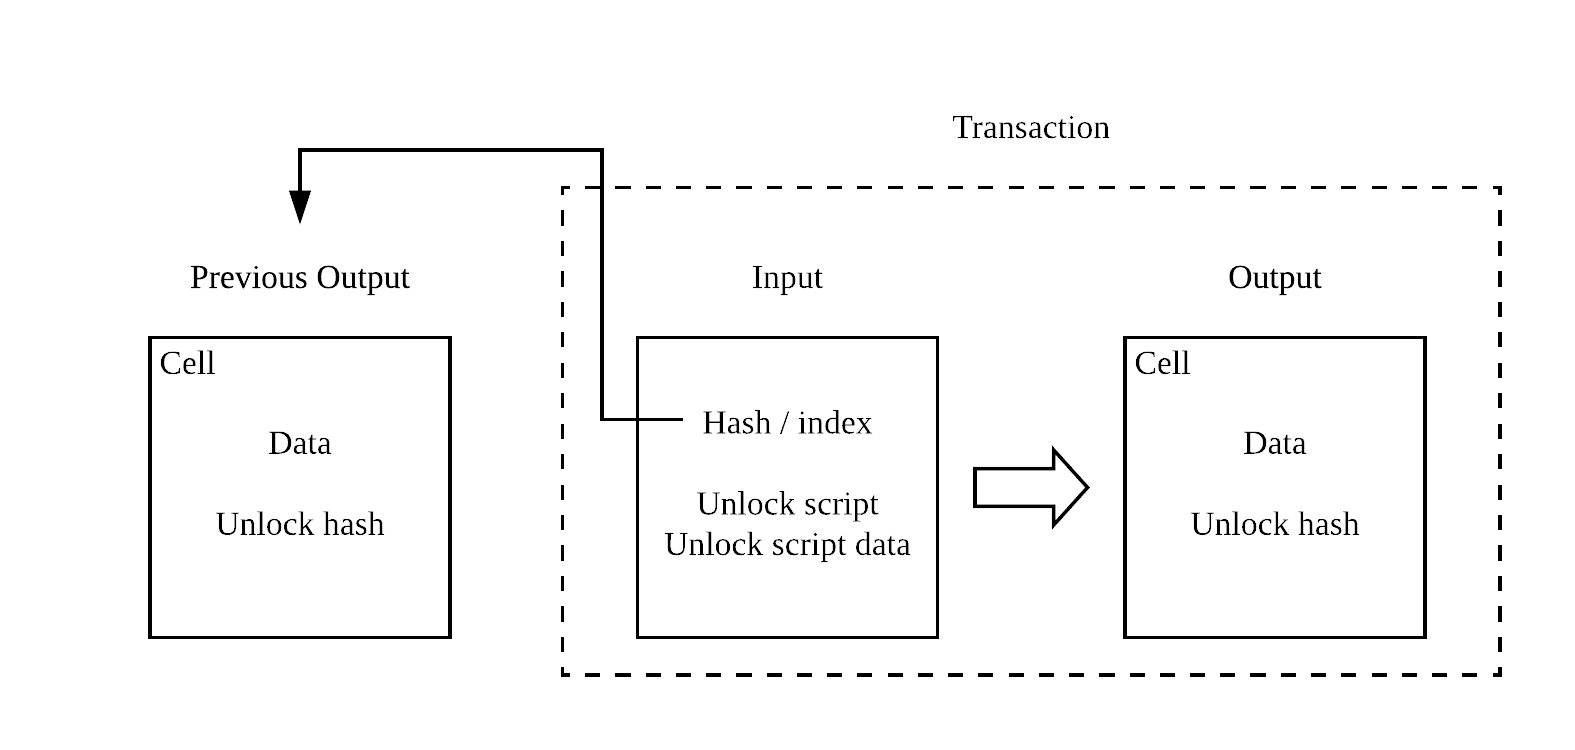
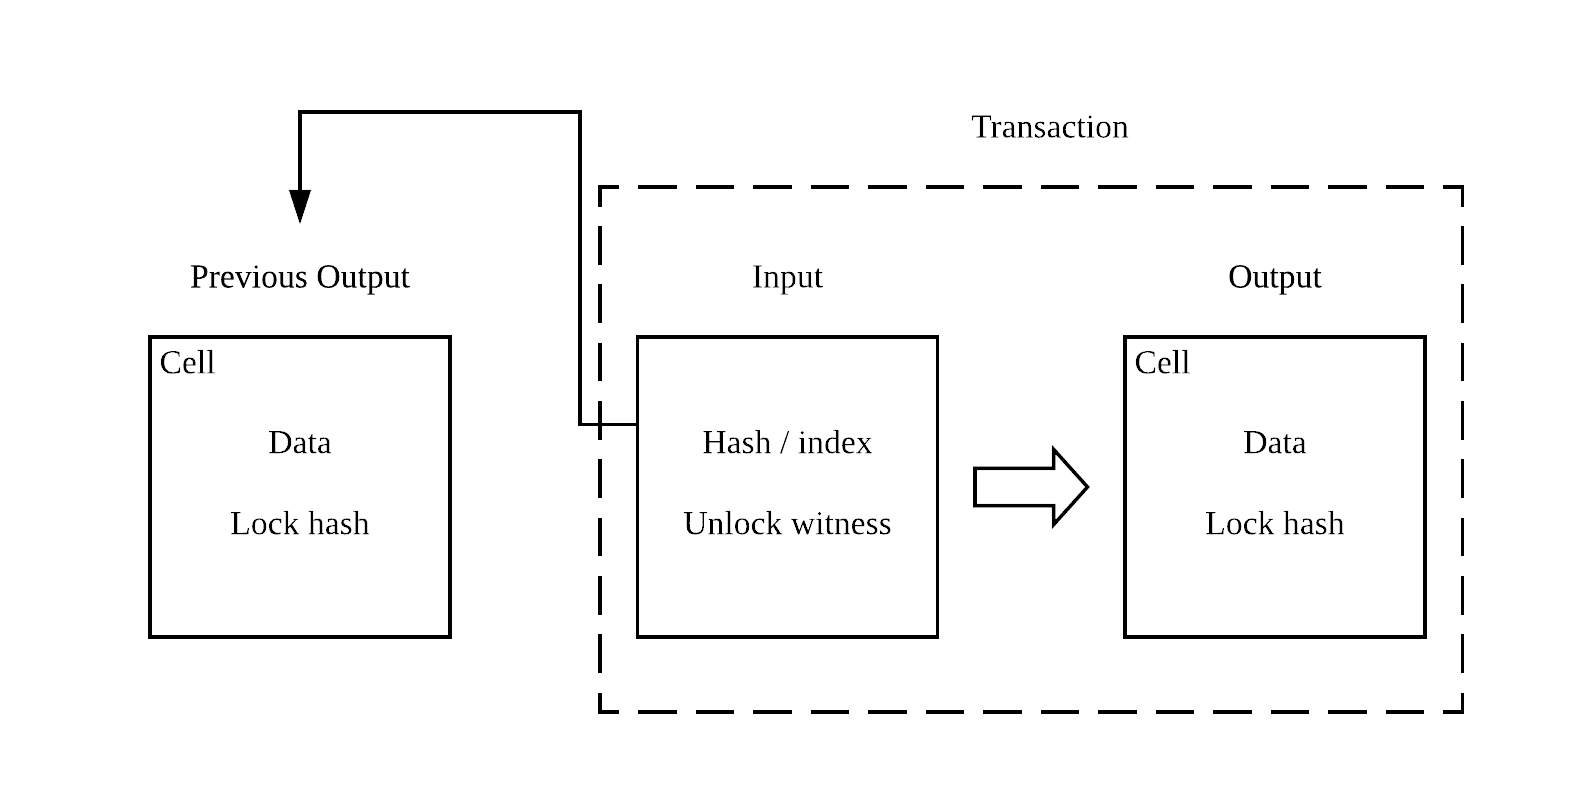
Revise RFC based on reviews

diff --git a/rfcs/0003-contract/main.zh-CN.md b/rfcs/0003-contract/main.zh-CN.md
@@ -10,14 +10,14 @@ Start Date: 2018-08-27
 
 该 RFC 对现在的合约运行模型作出一些修改，以达到如下目的：
 
-* 定义 Cell 类型的 schema 以及 validator 执行逻辑
+* 定义 Cell 的 validator 执行逻辑
 * 定义交易内部的不同合约之间的交互方法
 
 考虑到如下原因，注意本 RFC 中的所有实例代码在未经说明的情况下，均以 Ruby 来编写：
 
 * 已经证明通过直接运行 Ruby 虚拟机的方式，CKB 虚拟机可以运行 Ruby 代码
 * 这里主要的目的是说明合约如何运行，而不是达到最小的资源消耗
-* 目前绝大部分的团队成员已经会 Ruby，同时对于不懂 Ruby 的人员来说，Ruby 也容易阅读说明问题
+* Ruby 是一种可读性很高的语言，即使对于没有使用过 Ruby 的开发者，Ruby 也很容易理解
 
 ## 回顾
 
@@ -25,9 +25,9 @@ Start Date: 2018-08-27
 
 ![](assets/current-flow.png "Current Flow")
 
-1. 目前的 UTXO (在 CKB 中也叫做 `Cell`)，包含一个 data 数据字段，以及 data/owner lock。为了减小 UTXO 占用空间，UTXO 中只保存 lock 的哈希值。
-2. 交易的每个输入会包含对一个 UTXO 的引用，实际的 unlock 脚本(这里脚本的哈希值应该与 UTXO 中相应 lock 的哈希值相同)，以及 unlock 脚本的输入参数。CKB 通过虚拟机在给定输入参数执行该脚本的时候，脚本应该返回成功的返回值。
-3. 交易的每个输出也是一个 UTXO 结构（如果有输出的话），这个 UTXO 结构也包含 data 数据段以及 data/owner lock（仅包含哈希值）。输出的 UTXO 中即可以使用原有输入 UTXO 中的 lock，也可以使用全新的 lock。
+1. 目前 Cell 包含一个 data 数据字段，以及 data/owner lock。为了减小 Cell 占用空间，Cell 中只保存 lock 的哈希值。
+2. 交易的每个输入会包含对一个 Cell 的引用，实际的 unlock witness 数据，包含 unlock 脚本(这里脚本的哈希值应该与 Cell 中相应 lock 的哈希值相同)，以及 unlock 脚本的输入参数。CKB 通过虚拟机在给定输入参数执行该脚本的时候，脚本应该返回成功的返回值。
+3. 交易的每个输出也是一个 Cell 结构（如果有输出的话），这个 Cell 结构也包含 data 数据段以及 data/owner lock（仅包含哈希值）。输出的 Cell 中即可以使用原有输入 Cell 中的 lock，也可以使用全新的 lock。
 
 ## 概念
 
@@ -47,44 +47,9 @@ Start Date: 2018-08-27
 
 除 coinbase 交易外，所有的交易应该满足 output cell 的 capacity 总和不大于 input cell 的 capacity 总和的条件。
 
-### Cell 类型
+### Validator
 
-![](assets/cell.png "Cell")
-
-白皮书中提到了 Cell 的类型系统，类型系统包括了 schema 和 validator 两个部分。但是目前为止，他们的实际结构还没有定义。这里会定义 schema 与 validator 的结构。
-
-#### Schema
-
-Schema 提供了访问制定的 Cell 中的数据的方法。CKB 中，schema 以 CKB 虚拟机可以使用的动态链接库提供。它可以在加载之后为虚拟机提供一系列解析和读取 Cell 中存储内容的工具函数。针对一个包含天气信息的 Oracle Cell，可以提供以下的工具函数读取天气信息：
-
-```c
-int temperature(int city_index, int year, int month, int day);
-int wind(int city_index, int year, int month, int day);
-```
-
-注意这里使用 C 语言来定义函数原型仅仅是一个可能的例子。Schema 仅需要保证是 RISC-V 架构的 ELF 格式动态链接库既可以。实际上完全可以定义一个只能被载入到 CKB 上运行的 mruby 虚拟机上，只能被 Ruby 语言调用的 Schema：
-
-```ruby
-module Weather
-  def self.temperature(city_index, year, month, day)
-    # calling actual library
-  end
-
-  def self.wind(city_index, year, month, day)
-    # calling actual library
-  end
-end
-```
-
-在这里例子中，动态链接库还需要制定一个初始化函数用于把相应的 Ruby 模块载入 mruby 虚拟机中，但是这里想指出的点是是否提供 C 语言的 API 完全取决于 Cell 的维护者。
-
-同时 Schema 也是可选的：简单的 Cell 完全可以直接读取 Cell 的部分数据来获取需要的信息，无需载入一个完整的动态链接库。但是对于复杂的 Cell，schema 可能会更加有用。
-
-Schema 同时也是非常灵活的：CKB 本身并不制定构成 Cell 数据的基本结构（比如整型或是字符串）。与此相反，CKB 完全依赖于 Cell 的维护者来选择合适的数据结构来表示数据，他/她们可以按照需要提供任何函数来操作数据。
-
-#### Validator
-
-Schema 提供了便捷的访问已有 Cell 的格式化数据的方式，validator 则提供了确保新生成的 Cell 满足预先定义好的数据格式。与 unlock 脚本类似，Validator 实际上就是一个 RISC-V 架构下的可以执行合约。CKB 会在 Validator 自己的虚拟机中，通过如下输入参数执行合约：
+Cell 中会增加 Validator 部分。与 unlock 脚本类似，Validator 是一个 RISC-V 指令集下的 ELF 可执行程序。在验证交易的过程中，CKB 会在 Validator 自己的虚拟机中，通过如下输入参数执行合约：
 
 ```bash
 $ ./validator <number of deps> <dep 1 cell ID> <dep 2 cell ID> ... \
@@ -93,13 +58,13 @@ $ ./validator <number of deps> <dep 1 cell ID> <dep 2 cell ID> ... \
     <current output cell ID>
 ```
 
-在运行期，合约可以调用 CKB 提供的 API，或是相应的系统调用来载入 Cell 的 Schema 操作库，或是直接读取 Cell 内容，或是与其他合约交互（后面会介绍交互方式）。合约执行完毕时，通过返回值来表明 validator 执行是否成功。
+注意虽然 deps 包含整个交易的所有 deps Cell，但是这里的 inputs 与 outputs 部分只包含当前组中的所有输入与输入部分。这样通过组的作用，可以将有交互需要的 Cell 组合在一起；对于不相关的 Cell 操作，组也可以将他们隔离，保证各自的 Validator 不会相互影响。
 
-#### Cell 类型的属性
+在运行期，Validator 合约可以调用 CKB 提供的 API，或是相应的系统调用来载入外部 Cell 提供的辅助工具库，或是直接读取 Cell 内容，或是与其他合约交互（后面会介绍交互方式）。合约执行完毕时，通过返回值来表明 validator 执行是否成功。
 
-Cell 的类型部分（包含 schema 和 validator）既可以直接包含在当前 Cell 内，也可以指向外部的 Cell。换句话说，可以设计一个只包含 Cell 类型数据（schema 以及 validator）的 Cell，同时以该 Cell 为类型创建很多同样类型的 Cell。
+Validator 是不可修改的：当一个 Cell 指定了 Validator 之后，便不能通过转化操作修改当前 Cell 的 Validator。唯一的方式就是使用一个销毁操作销毁当前 Cell，再通过创建操作创建一个全新的 Cell，并指定新的 Validator。
 
-Cell 的类型也是不可以修改的：当一个 Cell 制定了类型之后，便不能通过转化操作修改当前 Cell 的类型。唯一的方式就是使用一个销毁操作销毁当前 Cell，再通过创建操作创建一个全新的 Cell，并制定新 Cell 的类型。
+Validator 是可选的：对于链外计算的 Cell，完全可以忽略 Validator 部分，CKB 会默认认为 Validator 执行成功，减少交易的开销。但是与此同时，这样就失去了链上的共识作用，CKB 将交易开销与共识作用之间的取舍交给 Cell 创建者来决定。
 
 ## 修正后的合约执行模型
 
@@ -107,11 +72,11 @@ Cell 的类型也是不可以修改的：当一个 Cell 制定了类型之后，
 
 ![](assets/new-flow.png "New Flow")
 
-1. 针对当前合约内的每一个组中的每一个输入，CKB 会查找到输入对应的 UTXO。针对输入所处的操作不同，不同的 lock 脚本哈希值会被使用：
+1. 针对当前合约内的每一个组中的每一个输入，CKB 会查找到输入对应的 Cell。针对输入所处的操作不同，不同的 lock 脚本哈希值会被使用：
    - 输入是转化操作时，使用 data lock 的哈希值
    - 输入是销毁操作时，使用 owner lock 的哈希值
 2. 针对每一个输入 unlock 脚本，CKB 会创建一个独立的虚拟机来执行。如果任何一个虚拟机中的脚本执行失败，当前合约既可以认为是失败的。注意这里所有的合约没有依赖关系，可以假定全部并行执行。
-3. 所有的输入全部验证过之后，CKB 会继续检查 Cell 类型的 validator：针对每一个输出 cell 中的每一个 validator（如果存在的话），CKB 会单独启动一个不同的虚拟机来运行 validator 脚本。脚本运行时会有如下的参数：
+3. 所有的输入全部验证过之后，CKB 会继续检查 Cell 的 validator：针对每一个输出 cell 中的每一个 validator（如果存在的话），CKB 会单独启动一个不同的虚拟机来运行 validator 脚本。脚本运行时会有如下的参数：
    - 合约中所有的 deps Cell 作为 deps 部分提供
    - 当前组中的所有输入 Cell 作为 inputs 部分提供
    - 当前组中的所有输出 Cell 作为 outputs 部分提供
@@ -143,17 +108,18 @@ module Currency
 end
 ```
 
+注意使用 Oracle Cell 只是提供汇率信息的一种方法，也可以直接将汇率信息包含在 unlock witness 数据中来实现相同目的。
+
 就像上面提到的，Oracle Cell 会在 deps Cell 中提供引用，每一个货币兑换 validator 会通过加载动态链接库的方式载入该 Oracle 的 schema 部分。相应的 Ruby 代码会被加载到 Ruby 虚拟机中。
 
 每一个 Cell 会包含如下格式的 JSON 数据：
 
-```json
+```javascript
 {
   "amount": 12300,
   "type": "USD"
 }
 ```
-
 
 `amount` 是一个整型数据，其中 1 代表 1 分，这样我们便可以省去使用浮点数的麻烦。`type` 包含当前 Cell 对应的货币币种。
 
@@ -211,7 +177,7 @@ exit(actual_rate == current_rate)
 
 基本的数据结构如下：
 
-```json
+```javascript
 {
   "headers": {
     "10032": {

diff --git a/rfcs/0003-contract/main.md b/rfcs/0003-contract/main.md
@@ -10,14 +10,14 @@ Start Date: 2018-08-27
 
 This RFC proposes several changes on current contract execution model to achieve following goals:
 
-* Cell type schema and validator execution flows are finalized
+* Cell validator execution flow is finalized
 * Communication solution between different contracts within a transaction is defined
 
 Note that all sample code and examples in this RFC will be written in Ruby due to the following reasons:
 
 * It is already been proved that CKB VM can run Ruby by running a Ruby VM directly
 * The main goal here is to explain how CKB contract works here, not achieving absolutely minimal resource usage
-* Most(if not all) of the team members already know Ruby, plus Ruby is easy to read.
+* Ruby code looks like natural languages, it will be easy to understand even for developers who have less experience with Ruby
 
 ## Recap
 
@@ -25,9 +25,9 @@ Right now, transaction execution flow is as follows:
 
 ![](assets/current-flow.png "Current Flow")
 
-1. Existing UTXOs, also known as `Cells` in CKB, has a data field as well as data/owner locks. For space consideration, each lock here only consists of a single lock script hash.
-2. In a transaction, an input would reference a UTXO with the actual unlock script(whose hash should match the lock script hash in UTXO) and unlock script data. When we execute the script together with the data on CKB VM, it should return success.
-3. The output of the transaction is also a UTXO(if there is one), which will also contain data field and data/owner locks. Existing or new unlock script hash could be used here in each lock.
+1. Existing Cells have data field as well as data/owner locks. For space consideration, each lock here only consists of a single lock script hash.
+2. In a transaction, an input would reference a Cell with unlock witness data, which includes the actual unlock script(whose hash should match the lock script hash in Cell), and unlock script data. When we execute the script together with the data on CKB VM, it should return success.
+3. The output of the transaction is also a Cell(if there is one), which will also contain data field and data/owner locks. Existing or new unlock script hash could be used here in each lock.
 
 ## Concepts
 
@@ -47,44 +47,9 @@ A transaction is either all accepted, or all rejected, it's not possible to acce
 
 With the exception of coinbase transactions, all transactions should satisfy the property that the sum of capacities of all output cells must not exceed the sum of input capacities of all input cells.
 
-### Cell Type
+### Validator
 
-![](assets/cell.png "Cell")
-
-In the whitepaper CKB defines `cell type`, which consists of schema and validator. But the format of them are never settled. This RFC will define what schema and validator will look like.
-
-#### Schema
-
-Schema provides a handy way to access binary data stored in the designated cell. In CKB, schema is implemented as a dynamic linked library for CKB VM. Once loaded, it can provide one or more utility functions to parse and read cell data. For example, a weather oracle cell can provide the following schema to read current weather:
-
-```c
-int temperature(int city_index, int year, int month, int day);
-int wind(int city_index, int year, int month, int day);
-```
-
-Note that it's just an example that we use C interface here. The only rules a schema needs to follow, is that it must be in ELF shared object format for RISC-V architecture, which is what CKB VM uses. That means it's totally okay to create a schema that can only be loaded into a mruby VM on top of CKB VM with Ruby-only contracts:
-
-```ruby
-module Weather
-  def self.temperature(city_index, year, month, day)
-    # calling actual library
-  end
-
-  def self.wind(city_index, year, month, day)
-    # calling actual library
-  end
-end
-```
-
-In this case, an initialization function is needed to load the new Ruby modules into mruby VM, but the point is a C interface is totally optional depending on Cell creator.
-
-Schema is entirely optional: for cell with simple data formats, it's definitely possible to read cell data directly instead of loading a library to access the data. But for more complex data structures, schema would be more helpful here.
-
-Schema is also quite flexible: CKB doesn't have a set of rules for defining specific items in the cell, such as integers or strings. Instead, it just let Cell creator provide a series of functions to work on top of the binary data. It's totally up to the cell creator to decide what format he/she shall use for each individual component in the cell.
-
-#### Validator
-
-While schema provides a way to access formatted data in an existing cell, validator ensures the data of the cell follows this pre-defined format. At the very top level, validator is just a RISC-V executable contract like unlock script. CKB will run this validator contract in its own VM with the following arguments:
+A validator is added to each Cell. Validator is a RISC-V architecture ELF executable, which is similar to unlock script. When validating a transaction, CKB would run the validator contract in its own VM with the following arguments:
 
 ```bash
 $ ./validator <number of deps> <dep 1 cell ID> <dep 2 cell ID> ... \
@@ -93,13 +58,11 @@ $ ./validator <number of deps> <dep 1 cell ID> <dep 2 cell ID> ... \
     <current output cell ID>
 ```
 
-While running, contract can leverage CKB APIs and syscalls to load cell schema library, read cell data, communicate with other contract(this will be discussed in more details later). Upon completion, the returned code of the RISC-V executable denotes if the validator succeeds.
+While deps arguments contain all deps Cell in current transaction, inputs and outputs arguments only contains the input and output cells in current IO group. As a result, Cells that are related can be grouped together; while unrelated cells are separated from each other via IO groups, so their validator won't be affected.
 
-#### Cell Type Properties
+At runtime, validator contract can leverage APIs and syscalls provided by CKB to load utility libraries provided by external cells, read external cells directly, or interact with other validator contracts(discussed in more details later). When validator finishes execution, the returned code will indicate if validator is succeeded.
 
-Cell type part, including schema and validator, can either be inlined within current cell, or referenece external cell. It's possible to create a designated meta cell containing only cell type data(schema and validator), then create many other cells referencing this single meta cell as cell type.
-
-Cell type is also immutable: once a cell is given a type, there's no way one can change the type of this cell via transform action. The only thing one can do here, is to use a destroy action to destroy the original cell, and then use a create action to create a new cell with new cell type.
+Validator is also immutable: once a cell is given a validator, there's no way one can change this validator via transform action. The only thing one can do here, is to use a destroy action to destroy the original cell, and then use a create action to create a new cell with new validator.
 
 ## Current Contract Execution Flow
 
@@ -107,11 +70,11 @@ With newly introduced concepts above, now contract execution flow looks like thi
 
 ![](assets/new-flow.png "New Flow")
 
-1. For each input in all IO groups in current transaction, CKB would locate the referenced UTXOs first. The exact lock script hash to use is based on action type:
+1. For each input in all IO groups in current transaction, CKB would locate the referenced Cells first. The exact lock script hash to use is based on action type:
    - If input is used in transform action, data lock hash will be used;
    - If input is used in destroy action, owner lock hash will be used.
 2. CKB will launch a separate VM for each input unlock script with specificed script data. If any VM fails, the whole transaction is marked with failure. Notice all VMs here could run concurrently.
-3. Once all inputs are verified via unlock script, CKB will then test all cell type validators: for each validator (if there exists one) in each output cells(this include all transform actions and create actions), a separate VM will be started with validator script. The validator script will be provided with following arguments:
+3. Once all inputs are verified via unlock script, CKB will then test all cells' validators: for each validator (if there exists one) in each output cell(this include all transform actions and create actions), a separate VM will be started with validator script. The validator script will be provided with following arguments:
    - All deps cells in the transaction are included as deps;
    - All input cells from current IO group are included as inputs;
    - All output cells from current IO group are included as outputs.
@@ -143,11 +106,13 @@ module Currency
 end
 ```
 
+Notice that it's just one of many ways to leverage Oracle cell for currency information, one can also encode currency information in unlock witness to achieve the same purpose.
+
 As mentioned above, this oracle cell will be provided in deps cell, each currency validator will load the schema part via shared library loading. The Ruby code will then be loaded into Ruby VM.
 
 For each currency cell, it contains a JSON object of the following format:
 
-```json
+```javascript
 {
   "amount": 12300,
   "type": "USD"
@@ -210,7 +175,7 @@ Next, a simpler Plasma example is introduced. Since CKB is a layer 1 implementat
 
 The basic data structure looks like following:
 
-```json
+```javascript
 {
   "headers": {
     "10032": {
